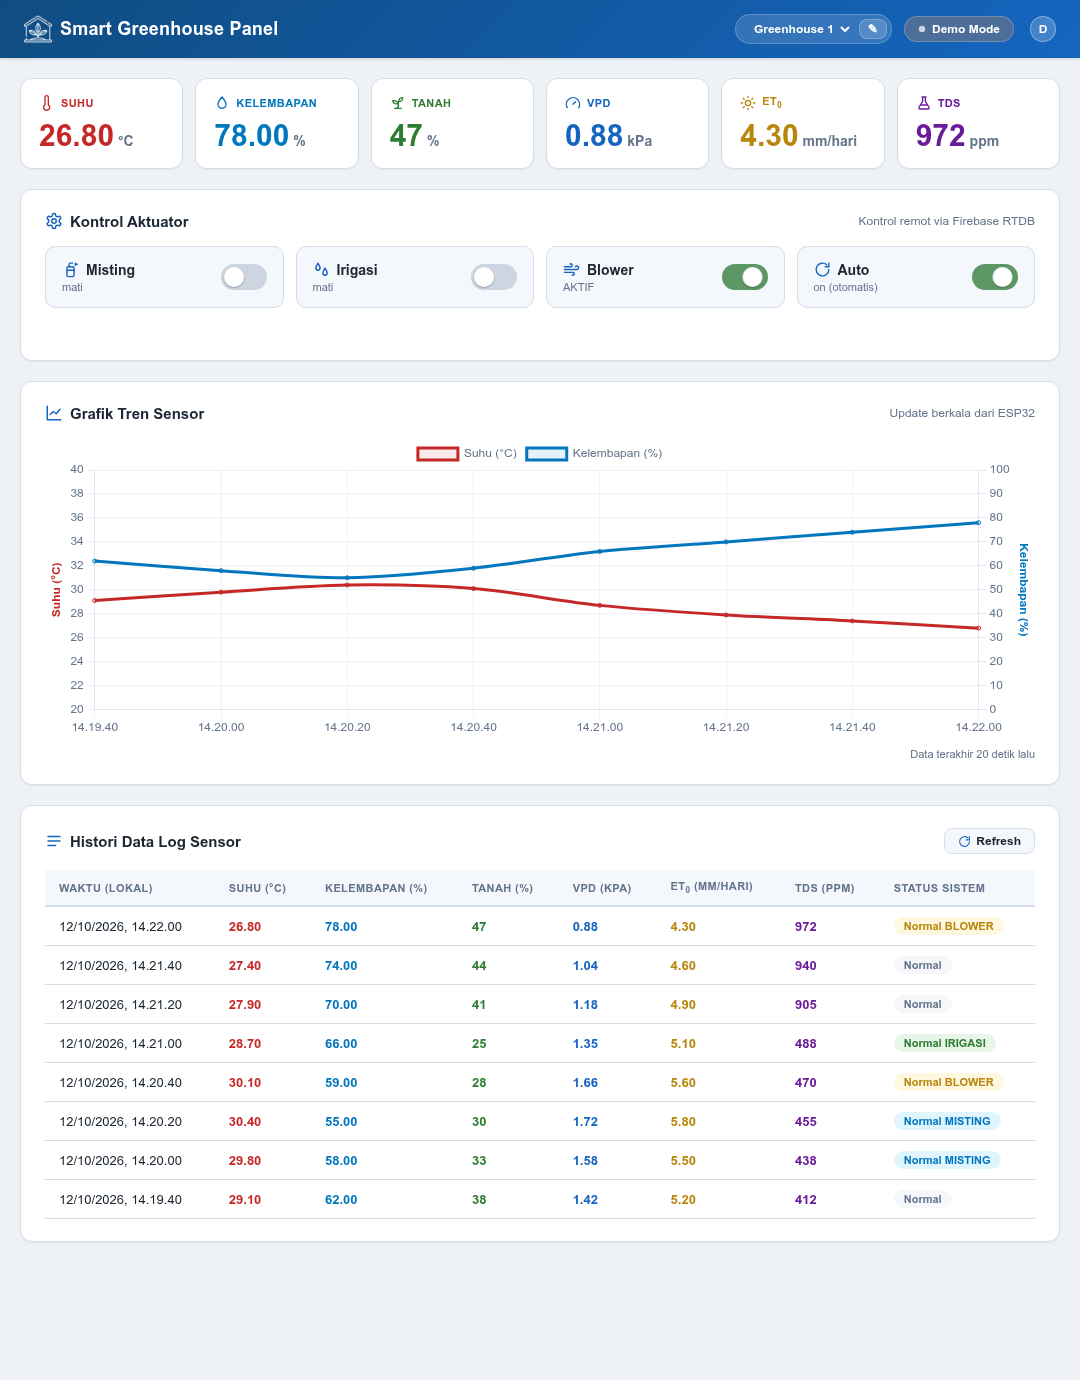
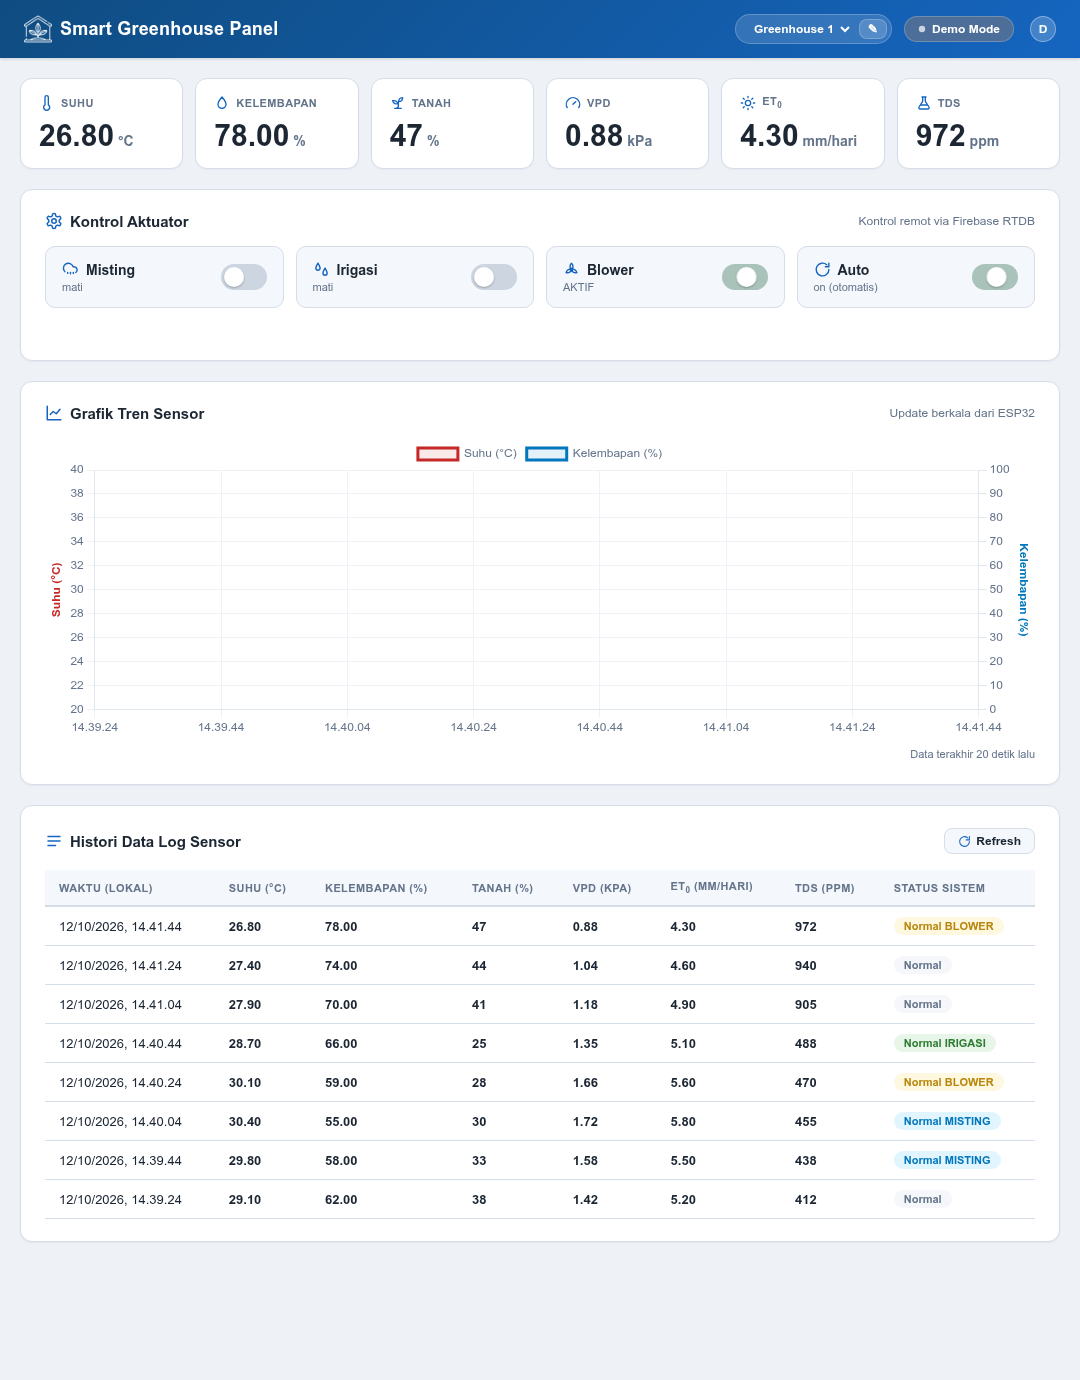
Dashboard: satu warna skema (hapus aksen per metrik & kolom tabel), refresh screenshot

diff --git a/web/index.html b/web/index.html
@@ -4,7 +4,7 @@
     <meta charset="UTF-8">
     <meta name="viewport" content="width=device-width, initial-scale=1.0">
     <title>Smart Greenhouse Dashboard</title>
-    <link rel="stylesheet" href="style.css?v=17">
+    <link rel="stylesheet" href="style.css?v=18">
     <script src="https://cdn.jsdelivr.net/npm/chart.js"></script>
     <script src="https://www.gstatic.com/firebasejs/9.23.0/firebase-app-compat.js"></script>
     <script src="https://www.gstatic.com/firebasejs/9.23.0/firebase-auth-compat.js"></script>
@@ -63,7 +63,7 @@
         <div class="container">
 
             <div class="metrics">
-                <div class="metric" style="--mc: var(--temp)">
+                <div class="metric">
                     <div class="label">
                         <!-- Suhu: thermometer -->
                         <svg viewBox="0 0 24 24" width="16" height="16" fill="none" stroke="currentColor" stroke-width="2" stroke-linecap="round" stroke-linejoin="round"><path d="M14 14.76V3.5a2.5 2.5 0 0 0-5 0v11.26a4.5 4.5 0 1 0 5 0z"/></svg>
@@ -71,7 +71,7 @@
                     </div>
                     <div class="value"><span id="mv-temp">-</span><small> °C</small></div>
                 </div>
-                <div class="metric" style="--mc: var(--hum)">
+                <div class="metric">
                     <div class="label">
                         <!-- Kelembapan udara: water drop -->
                         <svg viewBox="0 0 24 24" width="16" height="16" fill="none" stroke="currentColor" stroke-width="2" stroke-linecap="round" stroke-linejoin="round"><path d="M12 3s6 7 6 11a6 6 0 0 1-12 0c0-4 6-11 6-11z"/></svg>
@@ -79,7 +79,7 @@
                     </div>
                     <div class="value"><span id="mv-hum">-</span><small> %</small></div>
                 </div>
-                <div class="metric" style="--mc: var(--soil)">
+                <div class="metric">
                     <div class="label">
                         <!-- Tanah: seedling above soil line -->
                         <svg viewBox="0 0 24 24" width="16" height="16" fill="none" stroke="currentColor" stroke-width="2" stroke-linecap="round" stroke-linejoin="round"><path d="M7 20h10"/><path d="M10 20c5.5-2.5.8-6.4 3-10"/><path d="M9.5 9.4c1.1.8 1.8 2.2 2.3 3.7-2 .4-3.5.4-4.8-.3-1.2-.6-2.3-1.9-3-4.2 2.8-.5 4.4 0 5.5.8z"/><path d="M14.1 6a7 7 0 0 0-1.1 4c1.9-.1 3.3-.6 4.3-1.4 1-1 1.6-2.3 1.7-4.6-2.7.1-4 1-4.9 2z"/></svg>
@@ -87,7 +87,7 @@
                     </div>
                     <div class="value"><span id="mv-soil">-</span><small> %</small></div>
                 </div>
-                <div class="metric" style="--mc: var(--vpd)">
+                <div class="metric">
                     <div class="label">
                         <!-- VPD: gauge -->
                         <svg viewBox="0 0 24 24" width="16" height="16" fill="none" stroke="currentColor" stroke-width="2" stroke-linecap="round" stroke-linejoin="round"><path d="m12 14 4-4"/><path d="M3.34 19a10 10 0 1 1 17.32 0"/></svg>
@@ -95,7 +95,7 @@
                     </div>
                     <div class="value"><span id="mv-vpd">-</span><small> kPa</small></div>
                 </div>
-                <div class="metric" style="--mc: var(--et0)">
+                <div class="metric">
                     <div class="label">
                         <!-- ET0: sun (solar radiation = driver of evapotranspiration) -->
                         <svg viewBox="0 0 24 24" width="16" height="16" fill="none" stroke="currentColor" stroke-width="2" stroke-linecap="round" stroke-linejoin="round"><circle cx="12" cy="12" r="4"/><path d="M12 2v2M12 20v2M4.9 4.9l1.4 1.4M17.7 17.7l1.4 1.4M2 12h2M20 12h2M4.9 19.1l1.4-1.4M17.7 6.3l1.4-1.4"/></svg>
@@ -103,7 +103,7 @@
                     </div>
                     <div class="value"><span id="mv-et0">-</span><small> mm/hari</small></div>
                 </div>
-                <div class="metric" style="--mc: var(--tds)">
+                <div class="metric">
                     <div class="label">
                         <!-- TDS: graduation flask (konsentrasi larutan irigasi) -->
                         <svg viewBox="0 0 24 24" width="16" height="16" fill="none" stroke="currentColor" stroke-width="2" stroke-linecap="round" stroke-linejoin="round"><path d="M9 3h6M10 3v6.5L4.6 18a2 2 0 0 0 1.7 3h11.4a2 2 0 0 0 1.7-3L14 9.5V3"/><path d="M7.5 15h9"/></svg>

diff --git a/web/style.css b/web/style.css
@@ -9,12 +9,6 @@
     --accent-2: #0ea5e9;
     --soil: #2e7d32;
     --danger: #c62828;
-    /* warna aksen per metrik (dipakai lewat --mc di .metric) */
-    --temp: #c62828;
-    --hum: #0277bd;
-    --vpd: #1565c0;
-    --et0: #b8860b;
-    --tds: #6a1b9a;
     --warn: #b8860b;
     --header-bg: #0f4c81;
     --header-bg-end: #1565c0;
@@ -298,17 +292,17 @@ body {
     align-items: center;
     gap: 6px;
     font-size: 11px;
-    color: var(--mc, var(--muted));
+    color: var(--muted);
     font-weight: 600;
     text-transform: uppercase;
     letter-spacing: 0.4px;
 }
-.metric .label svg { color: var(--mc, var(--accent)); }
+.metric .label svg { color: var(--accent); }
 .metric .value {
     font-size: 30px;
     font-weight: 800;
     margin-top: 8px;
-    color: var(--mc, var(--text));
+    color: var(--text);
     line-height: 1.1;
 }
 .metric .value small { font-size: 14px; font-weight: 600; color: var(--muted); }
@@ -342,11 +336,8 @@ tbody td {
     white-space: nowrap;
 }
 tbody tr:hover { background: #f0f5fc; }
-.temp { color: #c62828; font-weight: 700; }
-.hum { color: #0277bd; font-weight: 700; }
-.soil { color: #2e7d32; font-weight: 700; }
-.vpd { color: #1565c0; font-weight: 600; }
-.et0 { color: #b8860b; font-weight: 600; }
+/* Nilai sensor di tabel seragam; hanya pill status yang berwarna (makna). */
+tbody td.num { color: var(--text); font-weight: 600; }
 .pill {
     display: inline-block;
     padding: 3px 10px;
@@ -378,7 +369,6 @@ tbody tr:hover { background: #f0f5fc; }
 .refresh svg { color: var(--accent); }
 .empty { text-align: center; color: var(--muted); padding: 24px; }
 .empty.error { color: var(--danger); }
-.tds { color: #6a1b9a; font-weight: 600; }
 .fresh { text-align: right; font-size: 11px; color: var(--muted); margin-top: 10px; min-height: 14px; }
 
 .login-overlay {

diff --git a/web/app.js b/web/app.js
@@ -278,12 +278,12 @@ function renderLogs(data) {
         tableBody.innerHTML += `
             <tr>
                 <td>${fmtLogTime(log.ts)}</td>
-                <td class="temp">${f(log.temperature)}</td>
-                <td class="hum">${f(log.humidity)}</td>
-                <td class="soil">${f(saneSoil(log.soil), 0)}</td>
-                <td class="vpd">${f(log.vpd)}</td>
-                <td class="et0">${f(log.et0)}</td>
-                <td class="tds">${f(log.tds, 0)}</td>
+                <td class="num">${f(log.temperature)}</td>
+                <td class="num">${f(log.humidity)}</td>
+                <td class="num">${f(saneSoil(log.soil), 0)}</td>
+                <td class="num">${f(log.vpd)}</td>
+                <td class="num">${f(log.et0)}</td>
+                <td class="num">${f(log.tds, 0)}</td>
                 <td>${pill}</td>
             </tr>`;
     });
